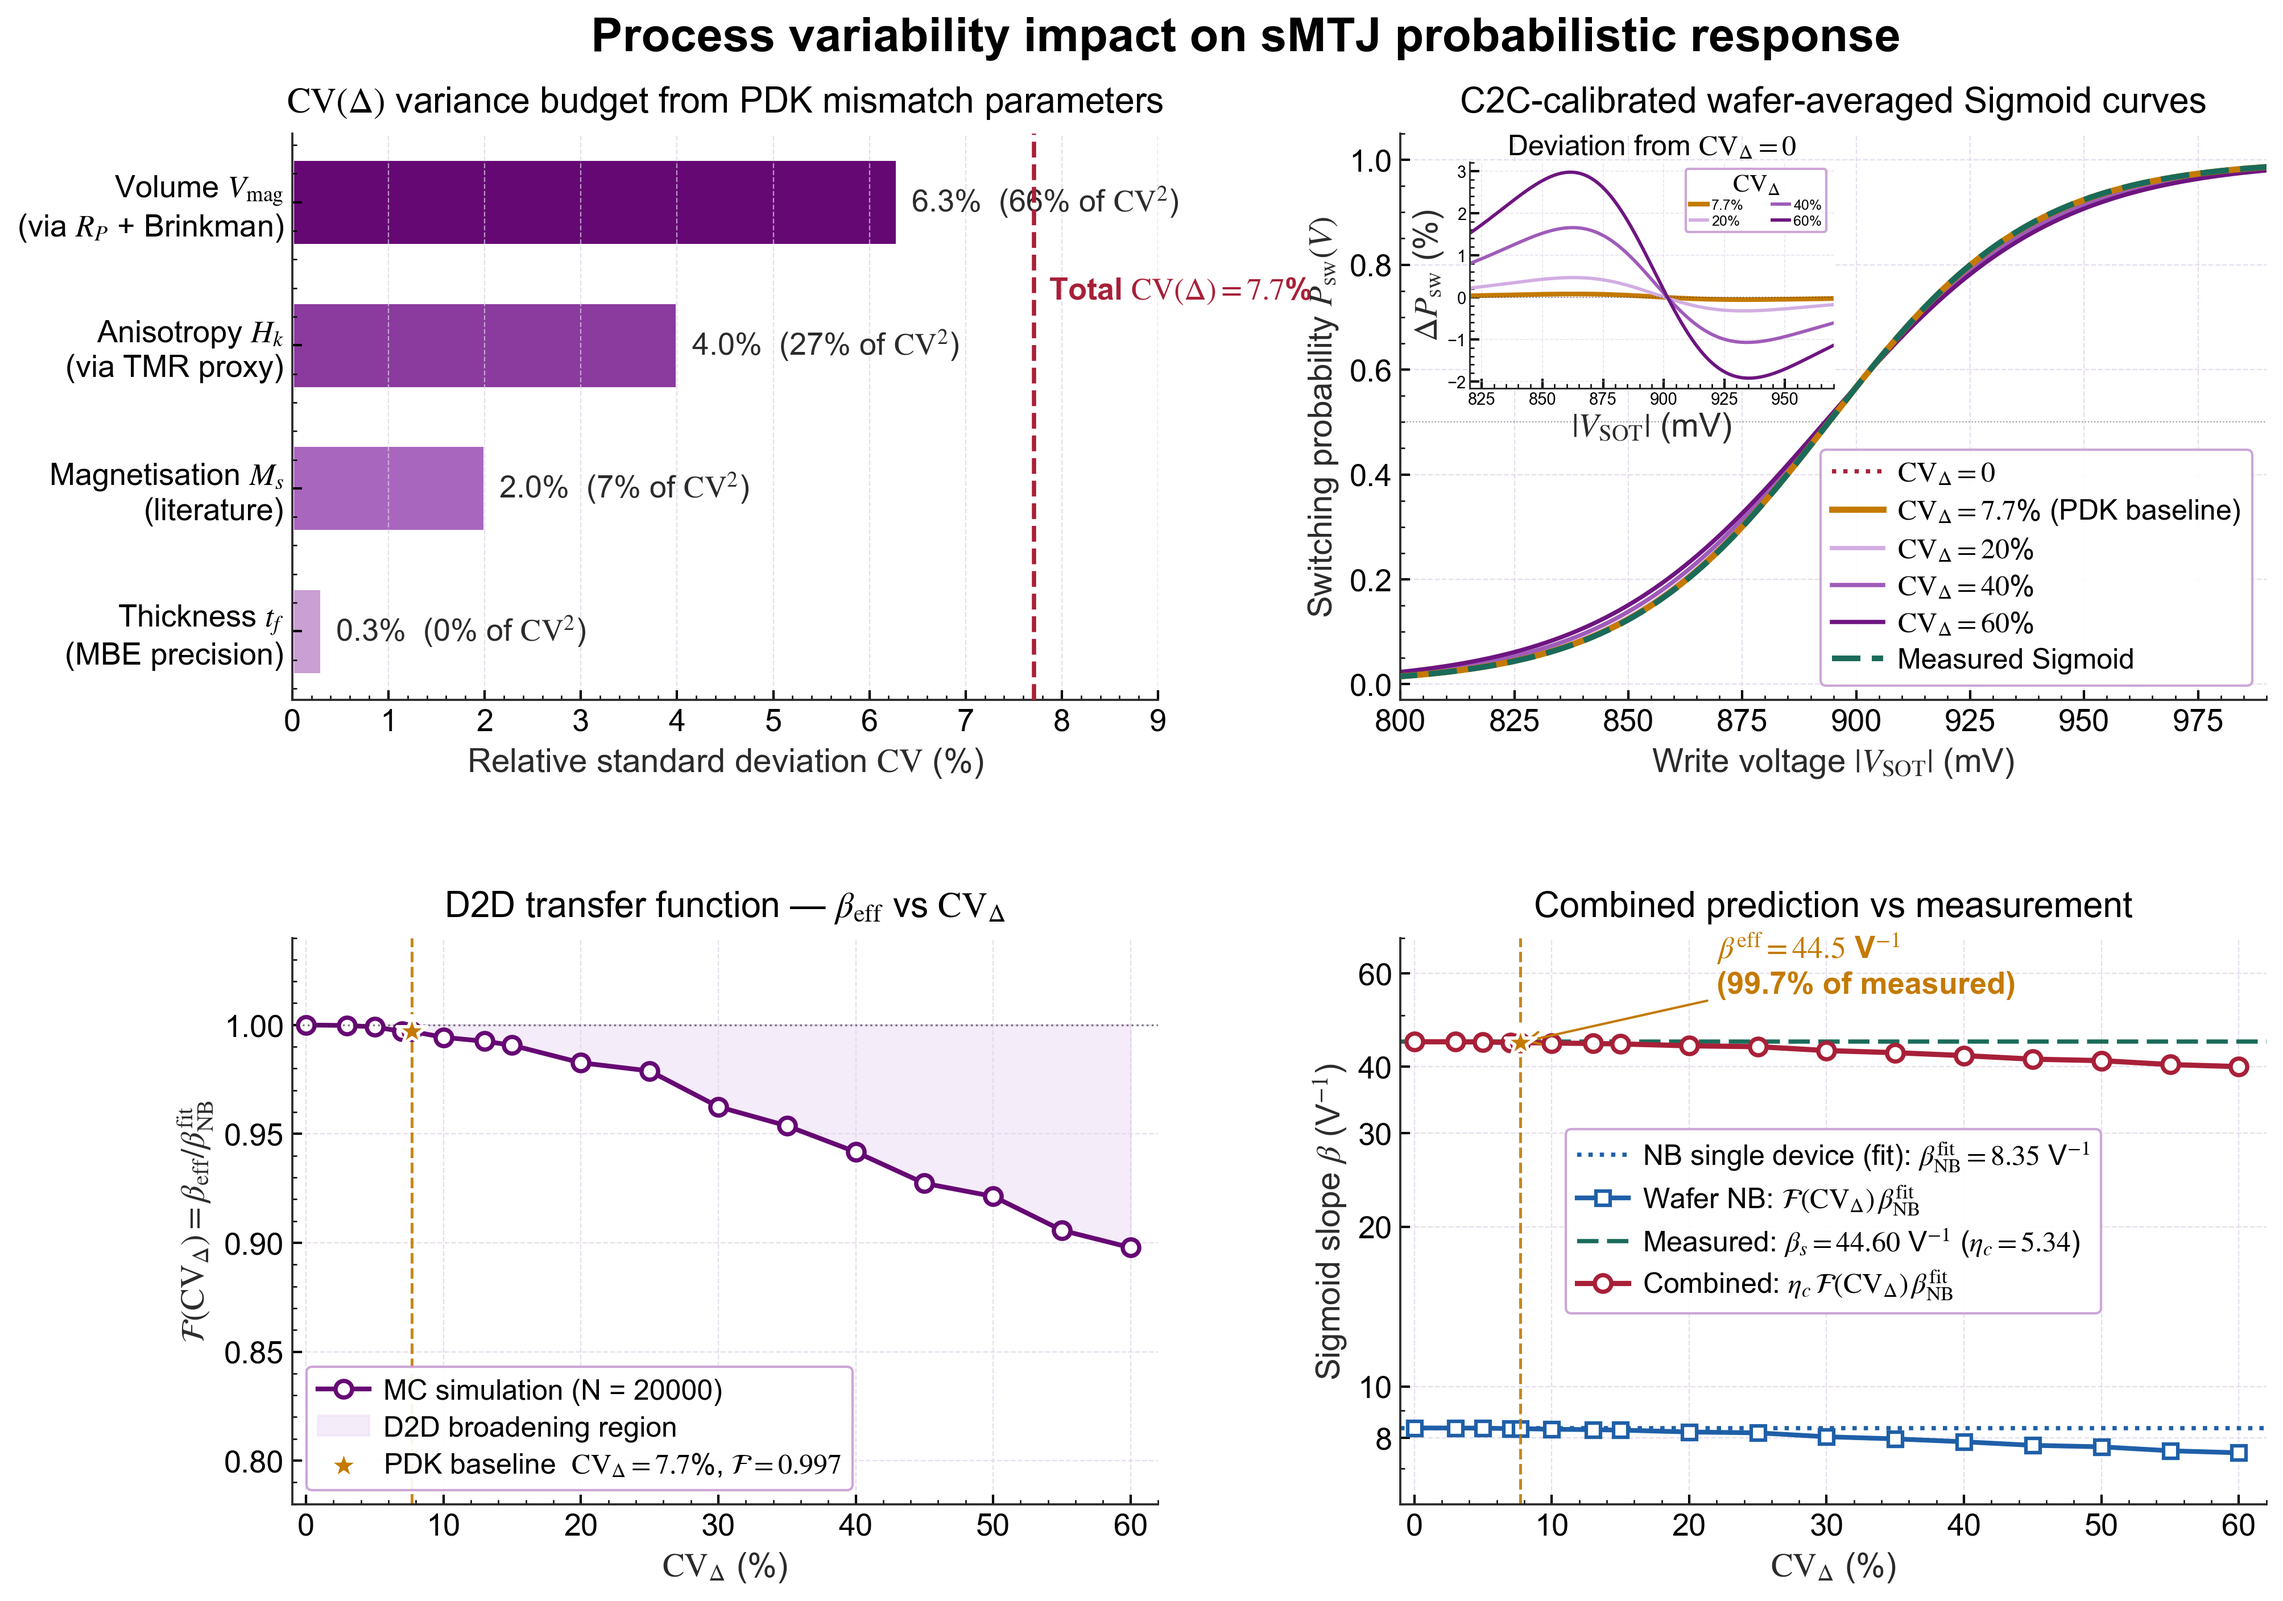
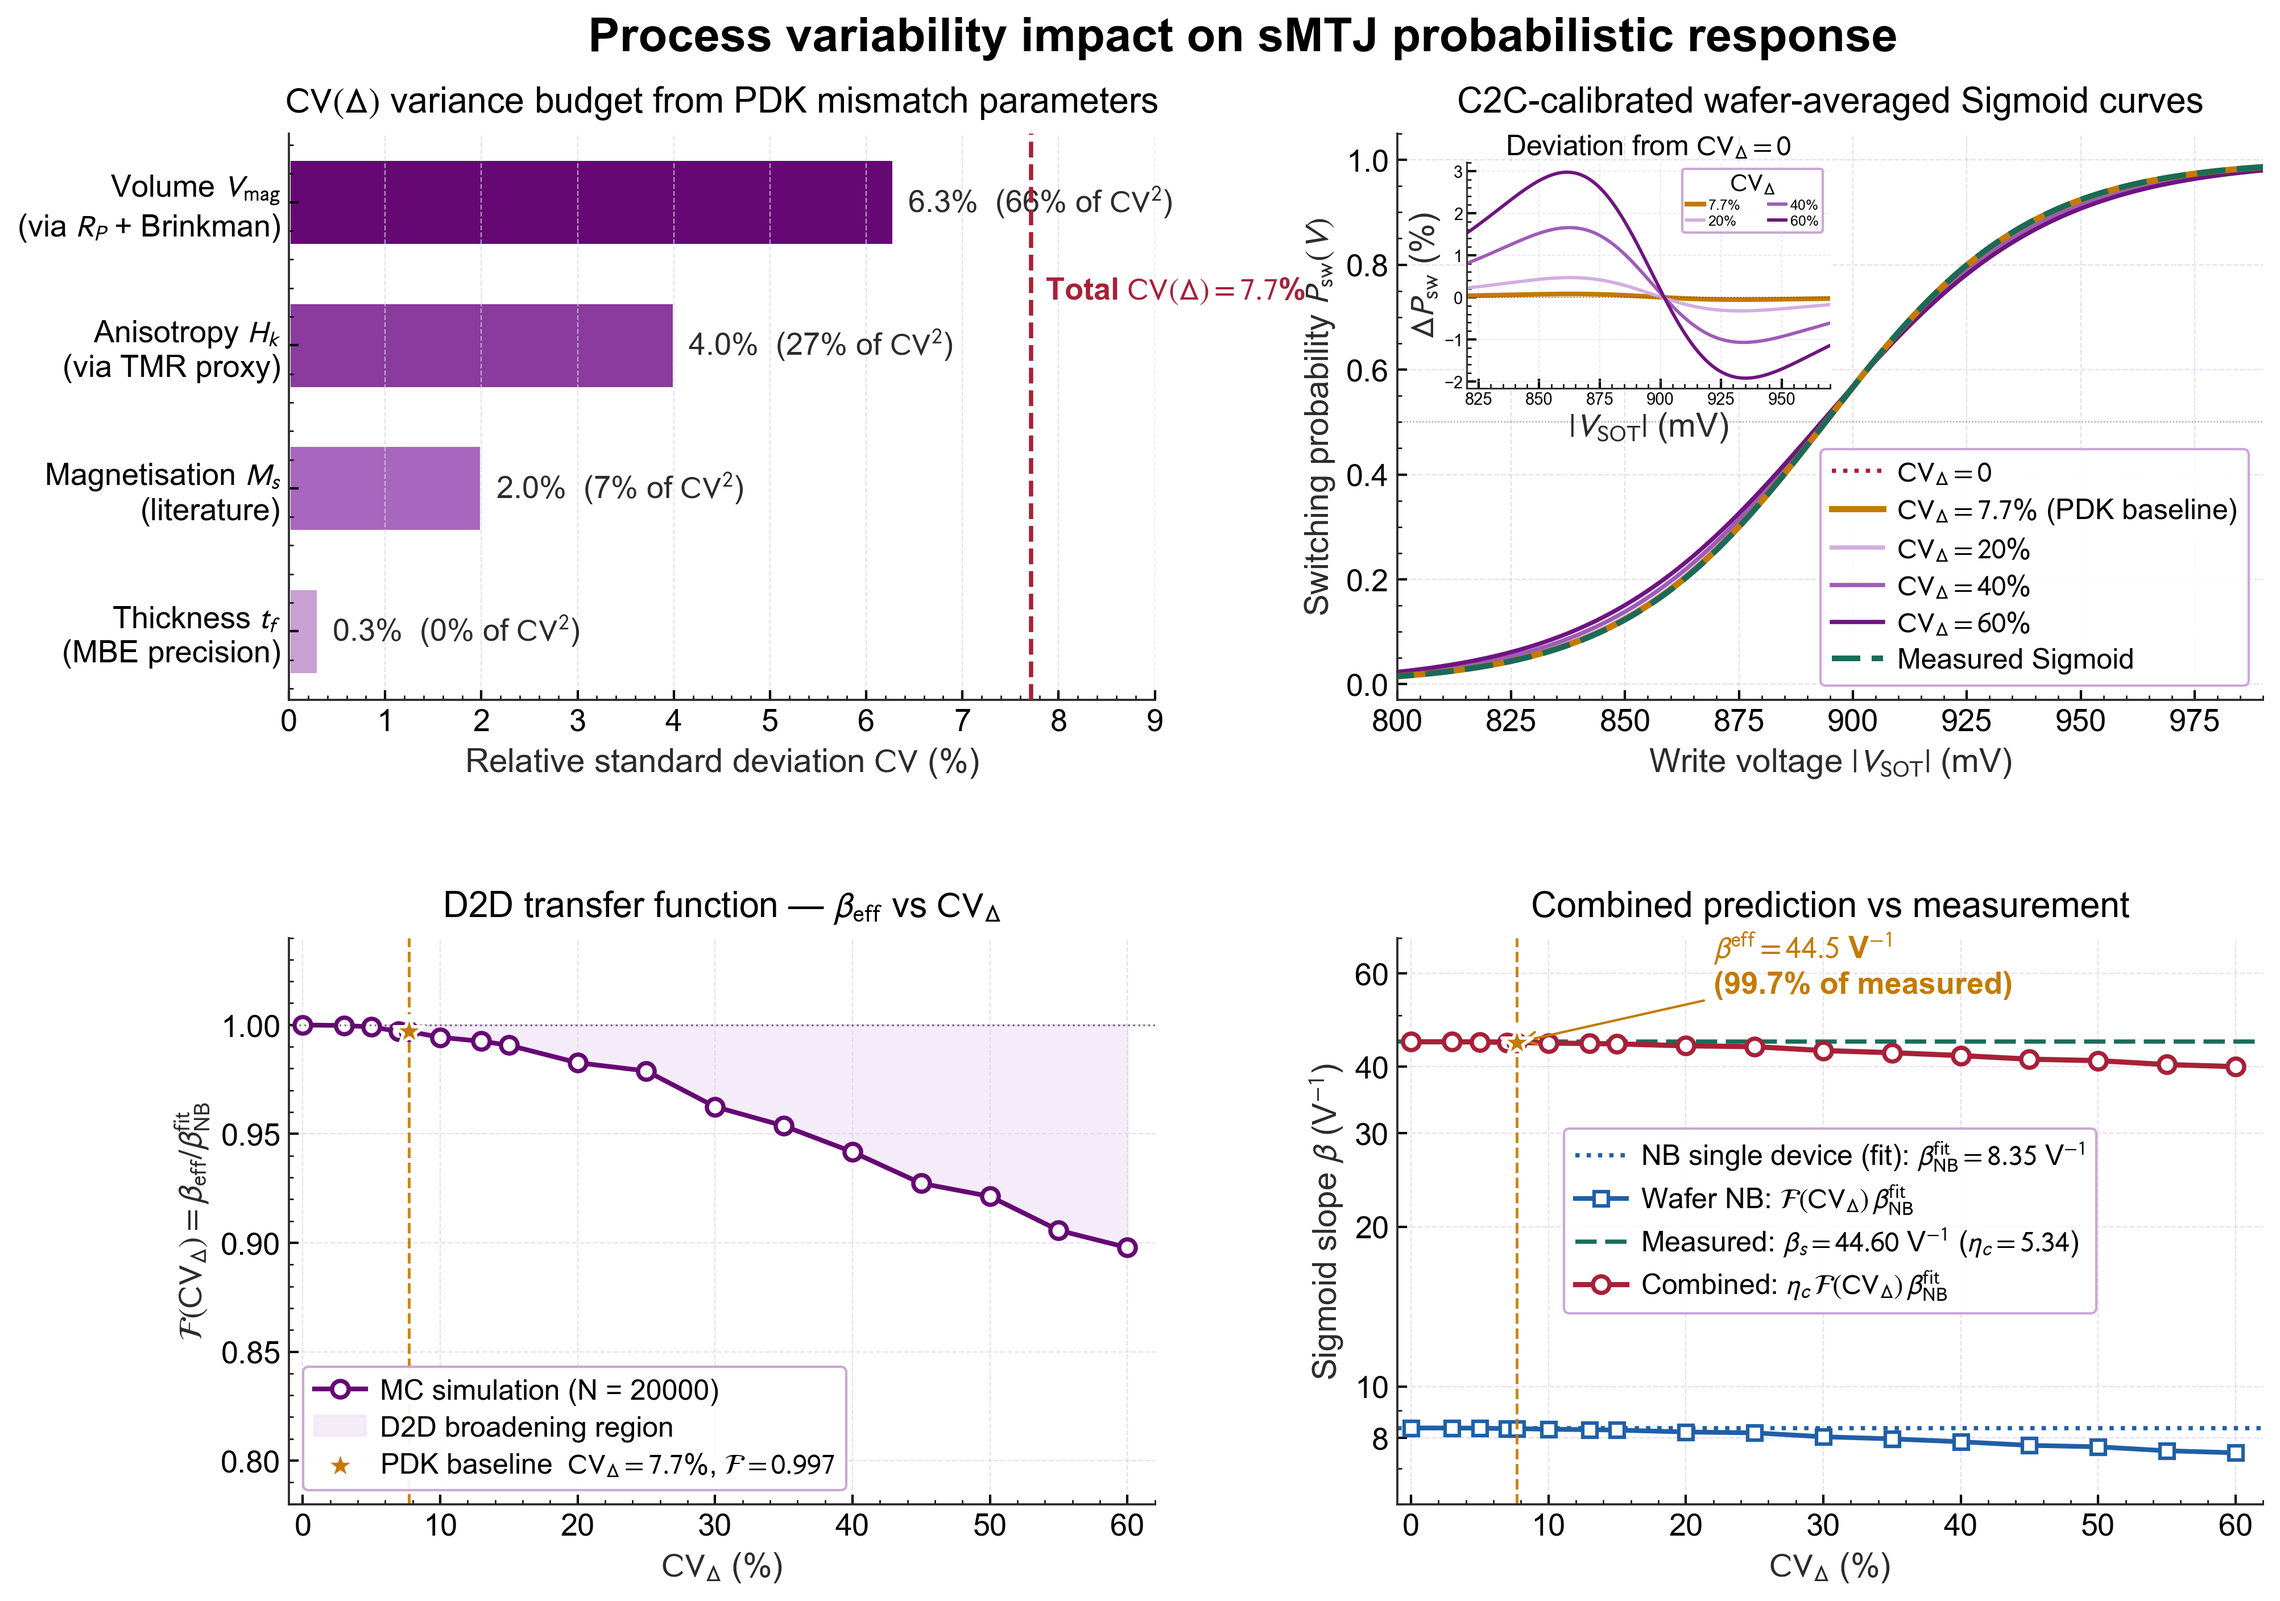
fix: 改 mathtext.fontset 从 stix(serif) 到 stixsans 以匹配 Arial 文本
之前 rcParams 中 font.family = sans-serif + font.sans-serif = ["Arial", ...]
已让正文文本正确渲染为 Arial，但 mathtext.fontset = "stix" 会让 $...$
内的数学元素回退到 STIX 衬线字体，导致带数学的图注整体看起来仍是衬线
风格。改成 stixsans 后数学元素与 Arial 文本字形一致。

涉及脚本：
  scripts/04_thermal_nonidealities/plot_*.py
  scripts/06_psw_t_fitting/fit_from_loops.py
  scripts/07_process_variability/sigmoid_fig-V3.0.py
  scripts/07_process_variability/variability_sim-V3.0.py
  scripts/08_sampling_effect/hw_sampling_reliability-V2.6.py
  scripts/08_sampling_effect/sampling_sensitivity_sim-V2.6.py
  scripts/09_simulation_figures/plot_3d_trajectory.py
  scripts/09_simulation_figures/plot_ser_mc.py
  scripts/09_simulation_figures/plot_single_trajectory.py

重新生成并同步：fig_hw_sampling_reliability, fig_mc_sampling_sensitivity,
fig_psw_sigmoid, fig_variability_theory, fig_exp_nb_summary, fig_3d_trajectory。

diff --git a/scripts/06_psw_t_fitting/fit_from_loops.py b/scripts/06_psw_t_fitting/fit_from_loops.py
@@ -80,7 +80,7 @@ plt.rcParams.update({
     "legend.fontsize"      : 10.5,
     "xtick.labelsize"      : 11.5,
     "ytick.labelsize"      : 11.5,
-    "mathtext.fontset"     : "stix",
+    "mathtext.fontset"     : "stixsans",
     "axes.linewidth"       : 0.9,
     "axes.edgecolor"       : CHARCOAL,
     "axes.facecolor"       : NEAR_WHITE,

diff --git a/scripts/09_simulation_figures/plot_single_trajectory.py b/scripts/09_simulation_figures/plot_single_trajectory.py
@@ -36,7 +36,7 @@ plt.rcParams.update({
     "legend.fontsize"      : 10.5,
     "xtick.labelsize"      : 12,
     "ytick.labelsize"      : 12,
-    "mathtext.fontset"     : "stix",
+    "mathtext.fontset"     : "stixsans",
     "axes.linewidth"       : 0.9,
     "axes.edgecolor"       : CHARCOAL,
     "axes.facecolor"       : NEAR_WHITE,

diff --git a/scripts/04_thermal_nonidealities/plot_thermal_transients-V2.0.py b/scripts/04_thermal_nonidealities/plot_thermal_transients-V2.0.py
@@ -42,7 +42,7 @@ plt.rcParams.update({
     "legend.fontsize"      : 9.5,
     "xtick.labelsize"      : 12,
     "ytick.labelsize"      : 12,
-    "mathtext.fontset"     : "stix",
+    "mathtext.fontset"     : "stixsans",
     "axes.linewidth"       : 0.9,
     "axes.edgecolor"       : CHARCOAL,
     "axes.facecolor"       : NEAR_WHITE,

diff --git a/scripts/04_thermal_nonidealities/plot_material_params-V2.0.py b/scripts/04_thermal_nonidealities/plot_material_params-V2.0.py
@@ -47,7 +47,7 @@ plt.rcParams.update({
     "legend.fontsize"      : 10,
     "xtick.labelsize"      : 13,
     "ytick.labelsize"      : 13,
-    "mathtext.fontset"     : "stix",
+    "mathtext.fontset"     : "stixsans",
     "axes.linewidth"       : 0.9,
     "axes.edgecolor"       : CHARCOAL,
     "axes.facecolor"       : NEAR_WHITE,

diff --git a/scripts/07_process_variability/sigmoid_fig-V3.0.py b/scripts/07_process_variability/sigmoid_fig-V3.0.py
@@ -49,7 +49,7 @@ plt.rcParams.update({
     "legend.fontsize"      : 12,
     "xtick.labelsize"      : 13,
     "ytick.labelsize"      : 13,
-    "mathtext.fontset"     : "stix",
+    "mathtext.fontset"     : "stixsans",
     "axes.linewidth"       : 0.9,
     "axes.edgecolor"       : CHARCOAL,
     "axes.facecolor"       : NEAR_WHITE,

diff --git a/scripts/07_process_variability/variability_sim-V3.0.py b/scripts/07_process_variability/variability_sim-V3.0.py
@@ -85,7 +85,7 @@ plt.rcParams.update({
     "legend.fontsize"      : 12,
     "xtick.labelsize"      : 13,
     "ytick.labelsize"      : 13,
-    "mathtext.fontset"     : "stix",
+    "mathtext.fontset"     : "stixsans",
     "axes.linewidth"       : 0.9,
     "axes.edgecolor"       : CHARCOAL,
     "axes.facecolor"       : NEAR_WHITE,

diff --git a/scripts/08_sampling_effect/hw_sampling_reliability-V2.6.py b/scripts/08_sampling_effect/hw_sampling_reliability-V2.6.py
@@ -49,7 +49,7 @@ plt.rcParams.update({
     "legend.fontsize"      : 12,
     "xtick.labelsize"      : 13,
     "ytick.labelsize"      : 13,
-    "mathtext.fontset"     : "stix",
+    "mathtext.fontset"     : "stixsans",
     "axes.linewidth"       : 0.9,
     "axes.edgecolor"       : CHARCOAL,
     "axes.facecolor"       : NEAR_WHITE,

diff --git a/scripts/08_sampling_effect/sampling_sensitivity_sim-V2.6.py b/scripts/08_sampling_effect/sampling_sensitivity_sim-V2.6.py
@@ -58,7 +58,7 @@ plt.rcParams.update({
     "legend.fontsize"      : 12,
     "xtick.labelsize"      : 13,
     "ytick.labelsize"      : 13,
-    "mathtext.fontset"     : "stix",
+    "mathtext.fontset"     : "stixsans",
     "axes.linewidth"       : 0.9,
     "axes.edgecolor"       : CHARCOAL,
     "axes.facecolor"       : NEAR_WHITE,

diff --git a/scripts/09_simulation_figures/plot_ser_mc.py b/scripts/09_simulation_figures/plot_ser_mc.py
@@ -53,7 +53,7 @@ plt.rcParams.update({
     "legend.fontsize"      : 10,
     "xtick.labelsize"      : 12,
     "ytick.labelsize"      : 12,
-    "mathtext.fontset"     : "stix",
+    "mathtext.fontset"     : "stixsans",
     "axes.linewidth"       : 0.9,
     "axes.edgecolor"       : CHARCOAL,
     "axes.spines.top"      : False,

diff --git a/scripts/04_thermal_nonidealities/plot_self_heating_compare.py b/scripts/04_thermal_nonidealities/plot_self_heating_compare.py
@@ -44,7 +44,7 @@ plt.rcParams.update({
     "legend.fontsize"      : 10,
     "xtick.labelsize"      : 12,
     "ytick.labelsize"      : 12,
-    "mathtext.fontset"     : "stix",
+    "mathtext.fontset"     : "stixsans",
     "axes.linewidth"       : 0.9,
     "axes.spines.top"      : False,
     "axes.spines.right"    : False,

diff --git a/scripts/09_simulation_figures/plot_3d_trajectory.py b/scripts/09_simulation_figures/plot_3d_trajectory.py
@@ -42,7 +42,7 @@ plt.rcParams.update({
     "legend.fontsize"  : 11,
     "xtick.labelsize"  : 11,
     "ytick.labelsize"  : 11,
-    "mathtext.fontset" : "stix",
+    "mathtext.fontset" : "stixsans",
     "axes.linewidth"   : 0.9,
     "lines.linewidth"  : 1.7,
     "figure.dpi"       : 150,
